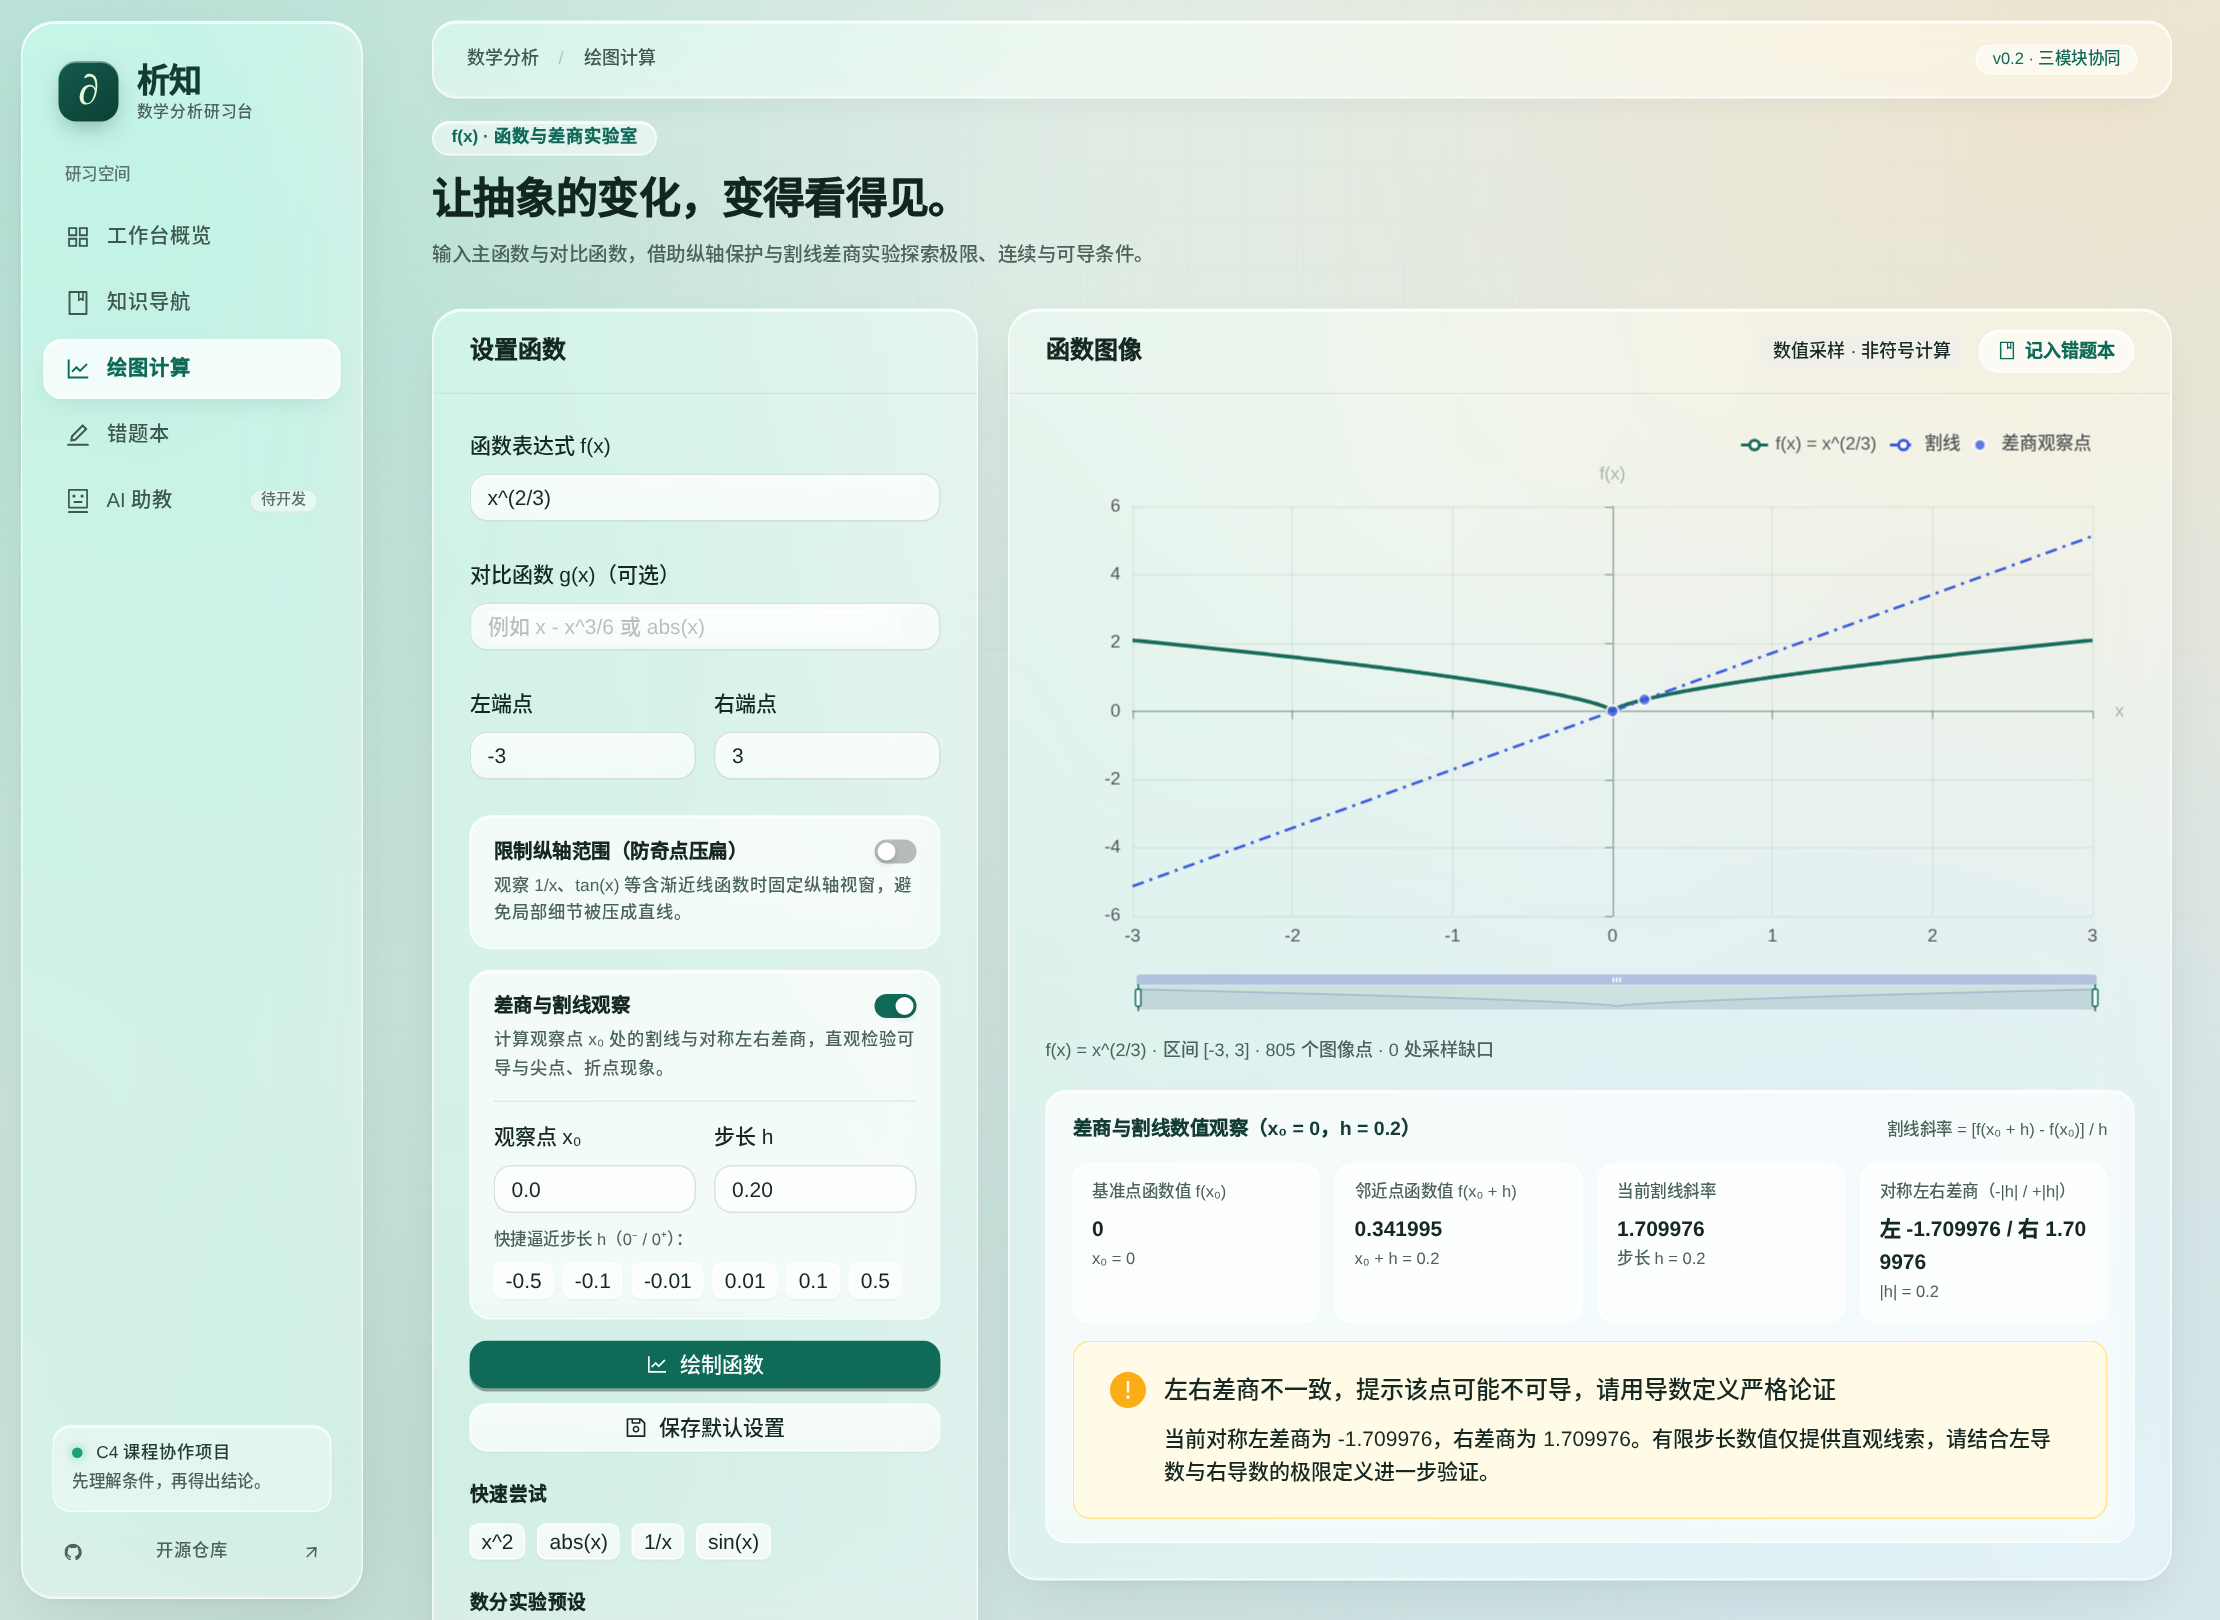
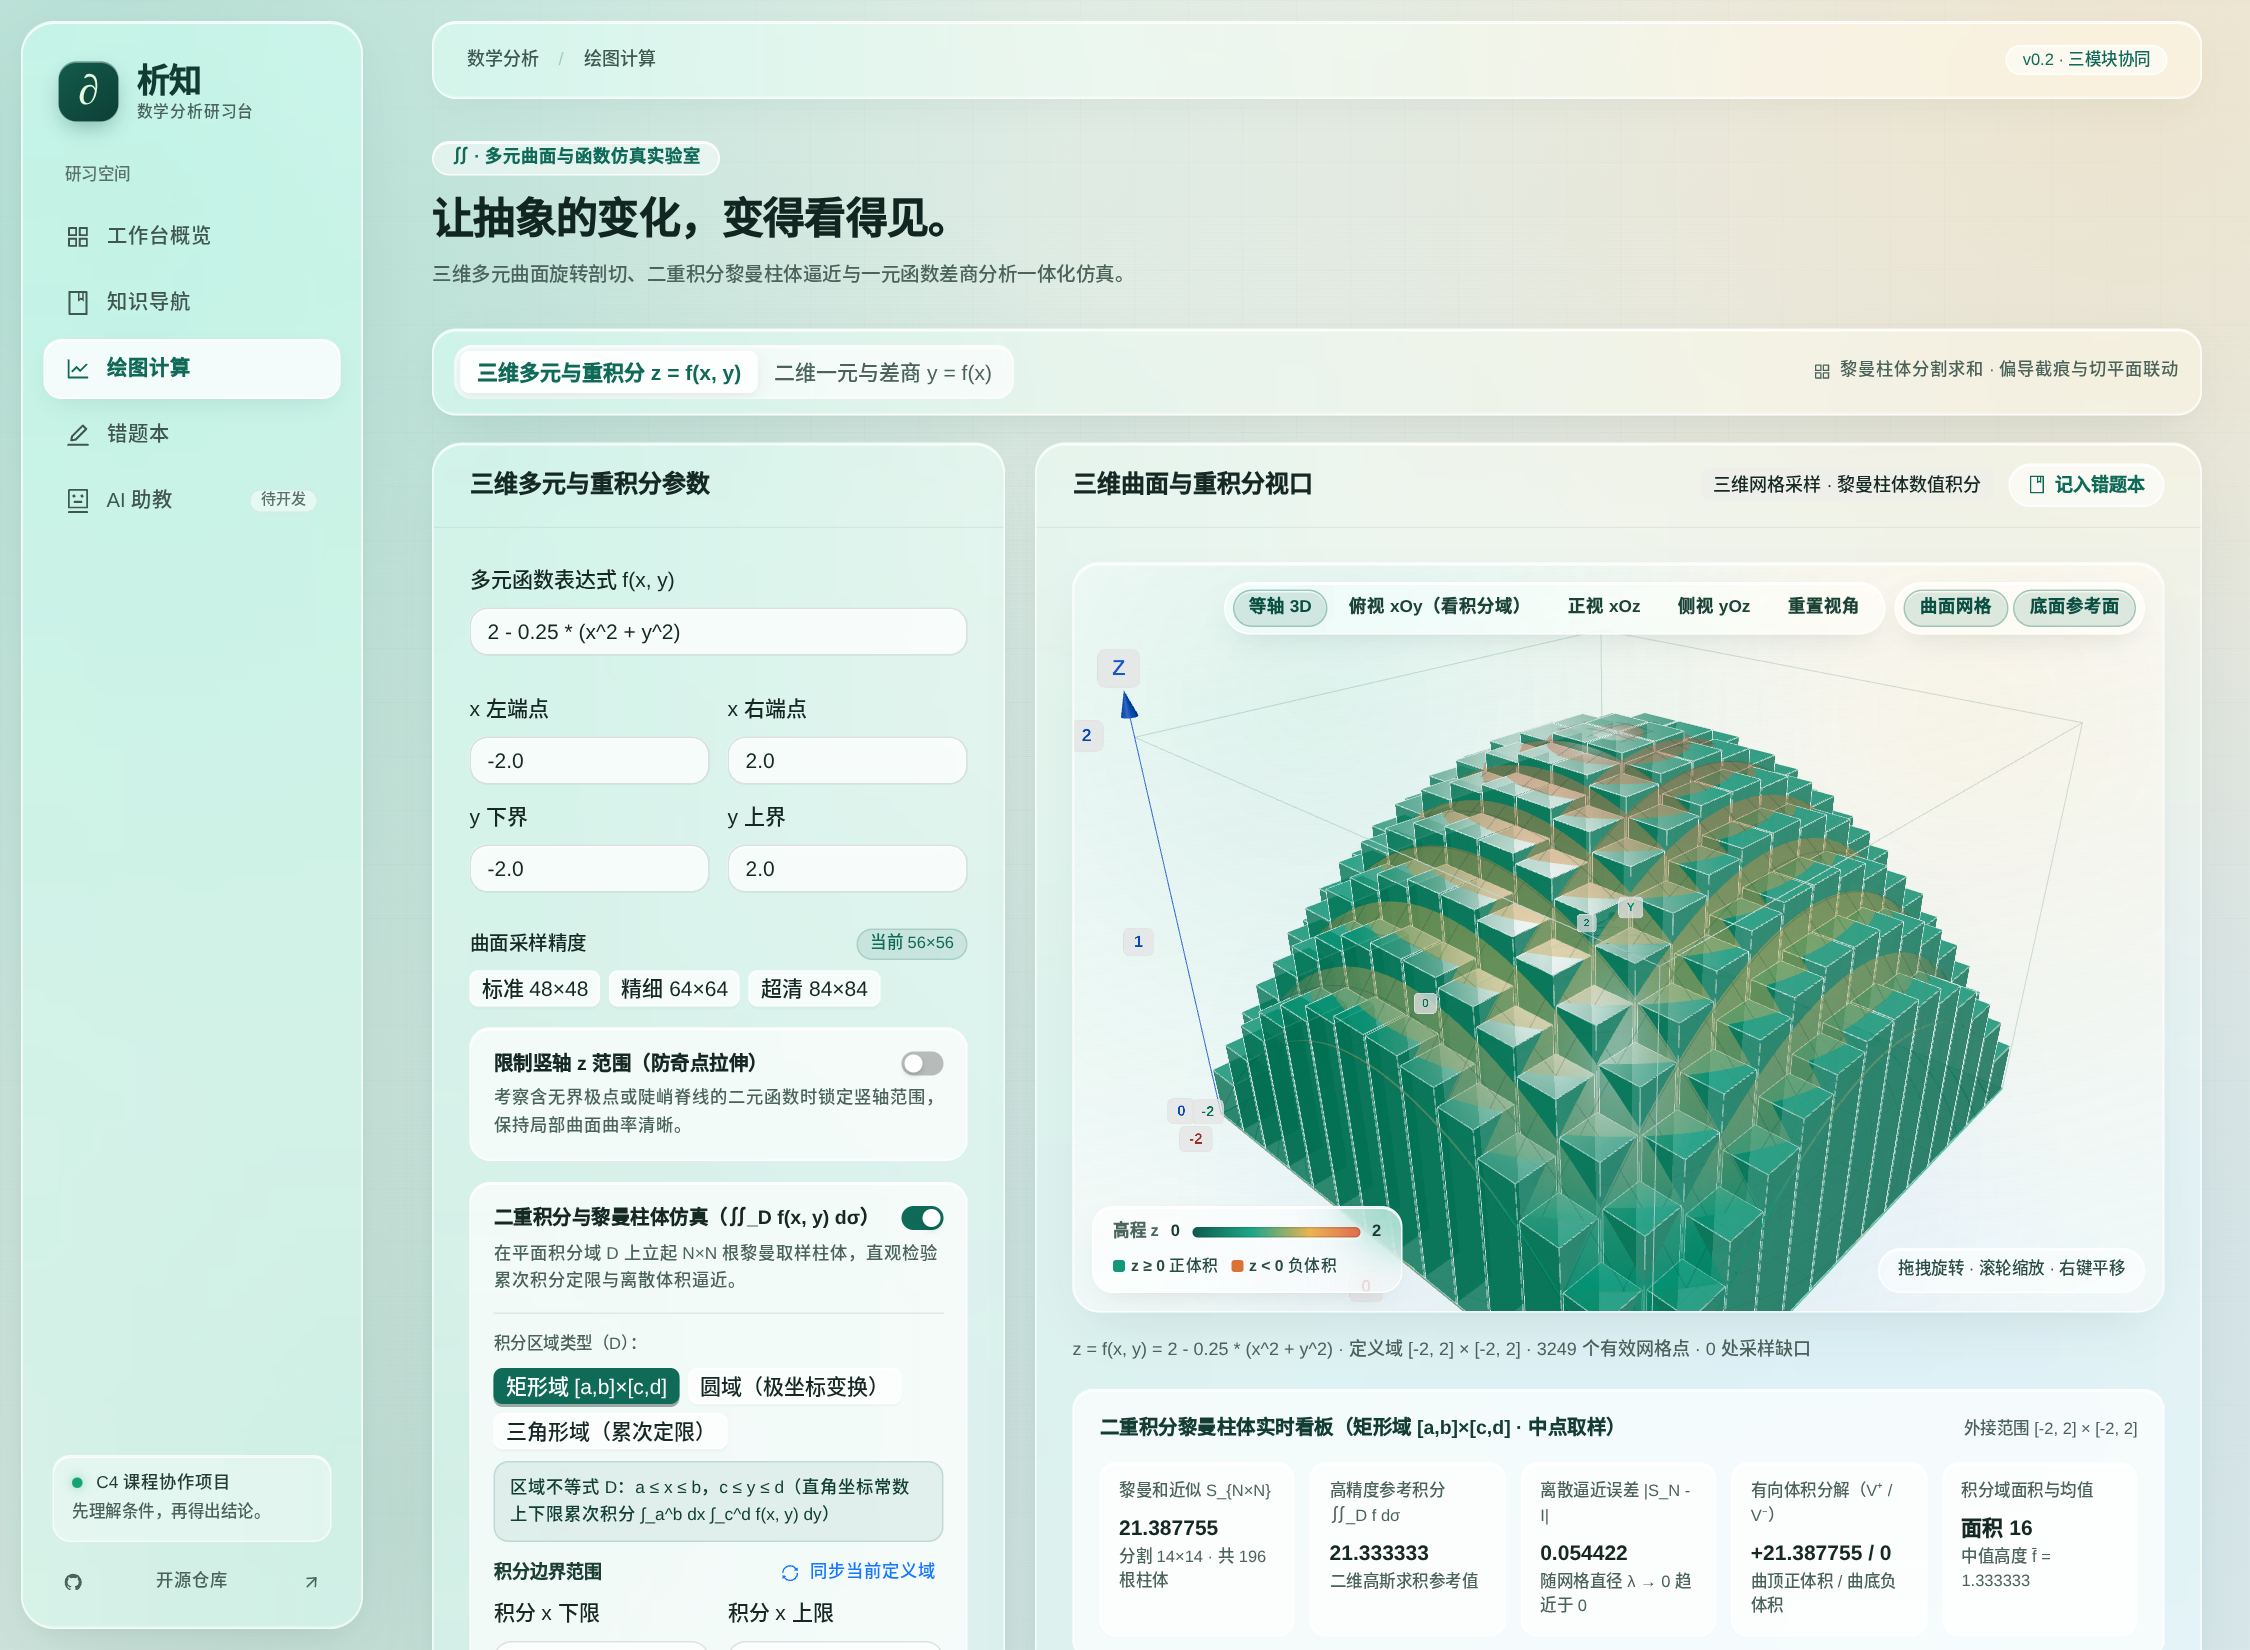
feat(3d): complete Three.js multivariable surface & double-integral studio, sticky viewport, and docs

diff --git a/e2e/workbench.spec.ts b/e2e/workbench.spec.ts
@@ -1,6 +1,6 @@
 import { expect, test } from '@playwright/test';
 
-test('知识导航可以将示例传给绘图模块', async ({ page }) => {
+test('知识导航可以将一元与三维多元示例分别传给仿真实验室', async ({ page }) => {
   await page.goto('/');
   await expect(page.getByRole('heading', { level: 1 })).toContainText(
     '让每一次探索',
@@ -17,38 +17,53 @@ test('知识导航可以将示例传给绘图模块', async ({ page }) => {
   await expect(
     page.getByRole('img', { name: '函数 abs(x) 的采样图像' }),
   ).toBeVisible();
+
+  await page.goto('/#/knowledge?topic=integral');
+  await page
+    .getByRole('link', { name: /去三维绘图中仿真/ })
+    .first()
+    .click();
+  await expect(page.getByLabel('多元函数表达式 f(x, y)')).toHaveValue(
+    '2 - 0.25 * (x^2 + y^2)',
+  );
+  await expect(page.getByRole('status')).toContainText(
+    '2 - 0.25 * (x^2 + y^2)',
+    { timeout: 20000 },
+  );
 });
 
-test('表达式与区间错误有明确反馈', async ({ page }) => {
+test('三维多元模式支持二重积分黎曼柱体预设、错误拦截与默认设置保留', async ({
+  page,
+}) => {
   await page.goto('/#/plotting');
-  await expect(page.getByRole('status')).toContainText('f(x)', {
-    timeout: 20000,
-  });
-  await page.getByLabel('函数表达式 f(x)').fill('unknown(x)');
-  await page.getByRole('button', { name: /绘制函数/ }).click();
-  await expect(page.getByText('无法绘制', { exact: true })).toBeVisible();
-  await page.getByRole('button', { name: '1/x', exact: true }).click();
-  await expect(page.getByRole('status')).toContainText('f(x) = 1/x');
-  await page.getByLabel('左端点').fill('10');
-  await page.getByRole('button', { name: /绘制函数/ }).click();
-  await expect(
-    page.getByText('左端点必须小于右端点', { exact: true }),
-  ).toBeVisible();
-});
+  await expect(page.getByRole('status')).toContainText(
+    '2 - 0.25 * (x^2 + y^2)',
+    { timeout: 20000 },
+  );
 
-test('默认绘图设置可在刷新后保留', async ({ page }) => {
-  await page.goto('/#/plotting');
-  await expect(page.getByRole('status')).toContainText('f(x)', {
+  await page.getByRole('button', { name: '高斯钟形 · 圆域极坐标' }).click();
+  await expect(page.getByLabel('多元函数表达式 f(x, y)')).toHaveValue(
+    'exp(-(x^2 + y^2))',
+  );
+  await expect(page.getByRole('status')).toContainText('exp(-(x^2 + y^2))', {
     timeout: 20000,
   });
-  await page.getByRole('button', { name: 'sin(x)', exact: true }).click();
-  await page.getByRole('button', { name: /保存默认设置/ }).click();
-  await expect(page.getByText(/已保存到当前浏览器/)).toBeVisible();
+
+  await page.getByRole('button', { name: /保存三维默认设置/ }).click();
+  await expect(page.getByText(/已保存三维默认设置/)).toBeVisible();
   await page.reload();
-  await expect(page.getByLabel('函数表达式 f(x)')).toHaveValue('sin(x)');
+  await expect(page.getByLabel('多元函数表达式 f(x, y)')).toHaveValue(
+    'exp(-(x^2 + y^2))',
+  );
+
+  await page.getByLabel('多元函数表达式 f(x, y)').fill('unknown(x, y)');
+  await page.getByRole('button', { name: /生成三维曲面/ }).click();
+  await expect(page.getByText('无法绘制', { exact: true })).toBeVisible();
 });
 
-test('函数实验室支持进阶实验预设并正确同步卡片来源状态', async ({ page }) => {
+test('二维一元模式支持表达式区间校验、进阶预设与卡片来源清理', async ({
+  page,
+}) => {
   await page.goto(
     '/#/plotting?expression=abs(x)&xMin=-3&xMax=3&sourceKnowledgeId=derivative-absolute',
   );
@@ -64,17 +79,18 @@ test('函数实验室支持进阶实验预设并正确同步卡片来源状态',
     'x - x^3/6',
   );
 
-  await page.getByRole('button', { name: '尖点 x^(2/3)' }).click();
-  await expect(page.getByRole('status')).toContainText('f(x) = x^(2/3)', {
-    timeout: 20000,
-  });
+  await page.getByLabel('左端点').fill('10');
+  await page.getByRole('button', { name: /绘制函数/ }).click();
+  await expect(
+    page.getByText('左端点必须小于右端点', { exact: true }),
+  ).toBeVisible();
 });
 
 test('知识图谱支持全字段检索与记入错题本联动', async ({ page }) => {
   await page.goto('/#/knowledge');
-  await page.getByPlaceholder('搜索概念或关键词').fill('洛必达');
+  await page.getByPlaceholder('搜索概念或关键词').fill('雅可比');
   await expect(
-    page.getByText('洛必达法则：充分条件而非充要条件'),
+    page.getByText('二重积分与累次定限：曲顶柱体体积及极坐标雅可比因子'),
   ).toBeVisible();
   await page
     .getByRole('link', { name: /记入错题本/ })
@@ -118,17 +134,6 @@ test('移动端导航与各核心模块内容不横向溢出', async ({ page }) 
   await page.setViewportSize({ width: 390, height: 844 });
   await page.goto('/');
   await expect(page.getByRole('heading', { level: 1 })).toBeVisible();
-  expect(
-    await page.evaluate(
-      () => document.documentElement.scrollWidth <= window.innerWidth,
-    ),
-  ).toBe(true);
-
-  await page
-    .getByRole('navigation', { name: '主导航' })
-    .getByRole('link', { name: /知识导航/ })
-    .click();
-  await expect(page.getByPlaceholder('搜索概念或关键词')).toBeVisible();
   expect(
     await page.evaluate(
       () => document.documentElement.scrollWidth <= window.innerWidth,

diff --git a/src/content/knowledge/knowledge.test.ts b/src/content/knowledge/knowledge.test.ts
@@ -8,6 +8,7 @@ import {
   type KnowledgeTopic,
 } from '@/shared/contracts';
 import { compileExpression } from '@/shared/math/sample';
+import { compileSurfaceExpression } from '@/shared/math/surface';
 
 const EXPECTED_CARD_IDS = [
   'sequence-monotone-bounded',
@@ -76,9 +77,7 @@ describe('知识内容契约', () => {
             surfacePlotRequestSchema.safeParse(example.surfacePlot).success,
           ).toBe(true);
           expect(() =>
-            compileExpression(
-              example.surfacePlot!.expression.replace(/\by\b/g, 'x'),
-            ),
+            compileSurfaceExpression(example.surfacePlot!.expression),
           ).not.toThrow();
           expect(example.surfacePlot.sourceKnowledgeId).toBe(card.id);
         }

diff --git a/vite.config.ts b/vite.config.ts
@@ -8,6 +8,7 @@ export default defineConfig({
   base: './',
   resolve: { alias: { '@': fileURLToPath(new URL('./src', import.meta.url)) } },
   build: {
+    chunkSizeWarningLimit: 650,
     rolldownOptions: {
       output: {
         codeSplitting: {

diff --git a/src/features/plotting/PlottingPage.module.css b/src/features/plotting/PlottingPage.module.css
@@ -62,6 +62,13 @@
   align-items: start;
 }
 
+@media (min-width: 961px) {
+  .plotLayout > :last-child {
+    position: sticky;
+    top: 80px;
+  }
+}
+
 .plotLayout :global(.ant-card) {
   min-width: 0;
   border-radius: var(--radius-lg) !important;

diff --git a/README.md b/README.md
@@ -40,14 +40,14 @@ npm run preview                # 预览生产包
 
 ## 模块状态
 
-| 模块     | 目标与能力                                                                                                        | 阶段                                 |
-| -------- | ----------------------------------------------------------------------------------------------------------------- | ------------------------------------ |
-| 知识导航 | 5 大数分板块（数列极限/函数极限/连续性/导数与微分/积分学）共 12 张结构化卡片、全字段检索、关联概念与绘图/错题联动 | 已就绪，教材精确页码待组员按用书核对 |
-| 绘图计算 | 白名单实数表达式（支持 `ln`/`cbrt`/`sign` 与有理分数幂）、双曲线对比、纵轴防压扁、差商割线观察、常驻 Worker 采样  | 已就绪，定位数值观察而非符号证明系统 |
-| 错题本   | 6 类数分错因归档、掌握状态流转、KaTeX 公式预览、4 道典型易错题示例、跨模块跳转验证、版本化存储与 JSON 导入导出    | 已就绪                               |
-| AI 助教  | 独立路由、服务端无密钥泄漏代理规划与受控上下文协议说明，不发起模型请求或伪造回复                                  | 待开发                               |
+| 模块     | 目标与能力                                                                                                             | 阶段                                 |
+| -------- | ---------------------------------------------------------------------------------------------------------------------- | ------------------------------------ |
+| 知识导航 | 5 大数分板块共 14 张结构化卡片（含二元极限方向相关性与二重积分极坐标雅可比因子）、全字段检索、关联概念及三维/二维联动  | 已就绪，教材精确页码待组员按用书核对 |
+| 绘图计算 | 基于 Three.js 的三维多元曲面与二重积分黎曼柱体仿真（支持矩形域/圆域极坐标/三角形累次定限、偏导截痕与切平面）及二维分析 | 已就绪，定位数值仿真而非符号证明系统 |
+| 错题本   | 6 类数分错因归档、掌握状态流转、KaTeX 公式预览、4 道典型易错题示例、跨模块跳转验证、版本化存储与 JSON 导入导出         | 已就绪                               |
+| AI 助教  | 独立路由、服务端无密钥泄漏代理规划与受控上下文协议说明，不发起模型请求或伪造回复                                       | 待开发                               |
 
-技术栈：React + TypeScript + Vite + Ant Design + React Router；mathjs（`mathjs/number` AST 解析） / ECharts / KaTeX / Zod；Vitest / Playwright。
+技术栈：React + TypeScript + Vite + Ant Design + React Router；Three.js（三维曲面与黎曼柱体 WebGL 仿真） / mathjs（`mathjs/number` AST 解析） / KaTeX / Zod；Vitest / Playwright。
 精确依赖版本见 `package.json` 与锁文件。禁止混用框架、包管理器或 UI 库，详见 [团队开发约定](docs/development.md)。
 
 ## 扩展功能

diff --git a/docs/design.md b/docs/design.md
@@ -33,10 +33,10 @@
 ## 技术方案
 
 - React 19 + TypeScript（strict）+ Vite 8；Ant Design 6 与各模块独立 CSS Modules；React Router 8 HashRouter。
-- `mathjs/number` 解析 AST + 自定义白名单实数递归求值器，在可复用常驻 Web Worker 内采样；ECharts 6 绘制主曲线、对比虚线、差商割线与观察锚点；KaTeX（`trust: false, strict: 'error'`）渲染公式。
-- Zod 4 统一跨模块契约与导入校验；版本化 `localStorage` 分别保存绘图默认偏好与错题本数据。
-- Rolldown `codeSplitting` 按 `echarts`、`zrender`、`katex`、`mathjs` 拆分缓存代码块，避免单 chunk 过大。
-- Vitest / Testing Library 单元与组件测试（10 个文件 94 项用例），Playwright 真实 Chromium 验证 8 项端到端与移动端无溢出流程，GitHub Actions 自动检查。
+- `mathjs/number` 解析 AST + 自定义白名单实数递归求值器，在可复用常驻 Web Worker 内执行一维采样、三维网格采样与二重积分高斯求积；**Three.js (`three@0.187.0`)** 驱动三维多元曲面、Marching-Squares 底面等高线、`InstancedMesh` 三维黎曼积分柱体及偏导截痕/切平面仿真，原生交互式 SVG 画板承载二维一元分析；KaTeX（`trust: false, strict: 'error'`）渲染公式。
+- Zod 4 统一跨模块契约与导入校验；版本化 `localStorage` 分别保存三维/二维绘图默认偏好与错题本数据。
+- Rolldown `codeSplitting` 按 `three`、`katex`、`mathjs` 拆分缓存代码块。
+- Vitest / Testing Library 单元与组件测试（11 个文件 145+ 项用例），Playwright 真实 Chromium 验证三维/二维与移动端无溢出流程，GitHub Actions 自动检查。
 
 ## 质量设计
 
